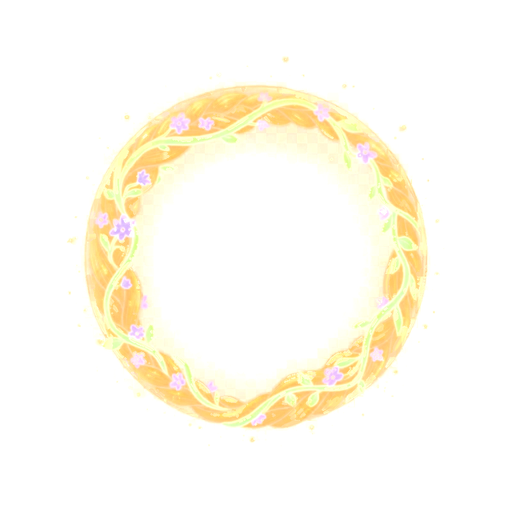
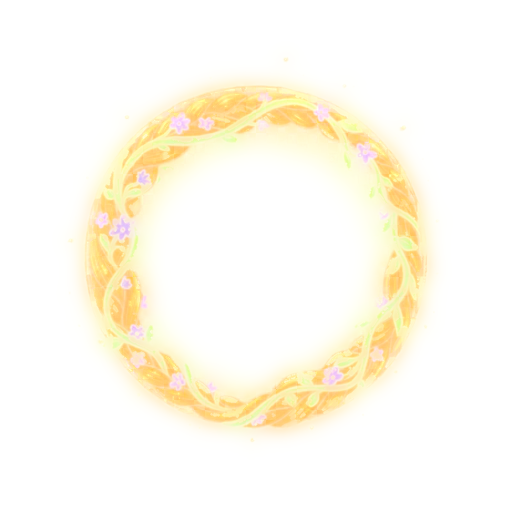
Hide stuck Fulmen aura, remove checkerboard from shield/frost art, enlarge ice

diff --git a/client/src/arena/ArenaScene.ts b/client/src/arena/ArenaScene.ts
@@ -264,7 +264,7 @@ export class ArenaScene extends Phaser.Scene {
     const rig = new WizardRig(this, slot);
     const body = rig.container;
     const shield = this.sized("shield", 3, -65, 150).setVisible(false);
-    const frost = this.sized("frozen", 1, -68, 155).setVisible(false);
+    const frost = this.sized("frozen", 1, -76, 185).setVisible(false);
     const empower = this.sized("empower", 0, -162, 40).setVisible(false);
     root.add([shadow, aura, haste, body, shield, frost, empower]);
     return { root, body, rig, shield, frost, aura, empower, haste, transformed: null, fallen: false };
@@ -314,8 +314,9 @@ export class ArenaScene extends Phaser.Scene {
     view.frost.setVisible(now < player.frozenUntil);
 
     const charged = player.ultimate >= 100;
-    view.aura.setVisible(charged);
-    if (charged) view.aura.setScale(base(view.aura) * (1 + Math.sin(now / 160) * 0.05)).setAlpha(0.75 + Math.sin(now / 160) * 0.2);
+    // The big aura sprite stayed on for as long as the Fulmen meter was full (Incendio casts fill it),
+    // which read as a stuck graphic. "Ultimate ready" is shown by the HUD meter and the staff glow instead.
+    view.aura.setVisible(false);
 
     const empowered = now < player.empoweredUntil;
     view.empower.setVisible(empowered);
